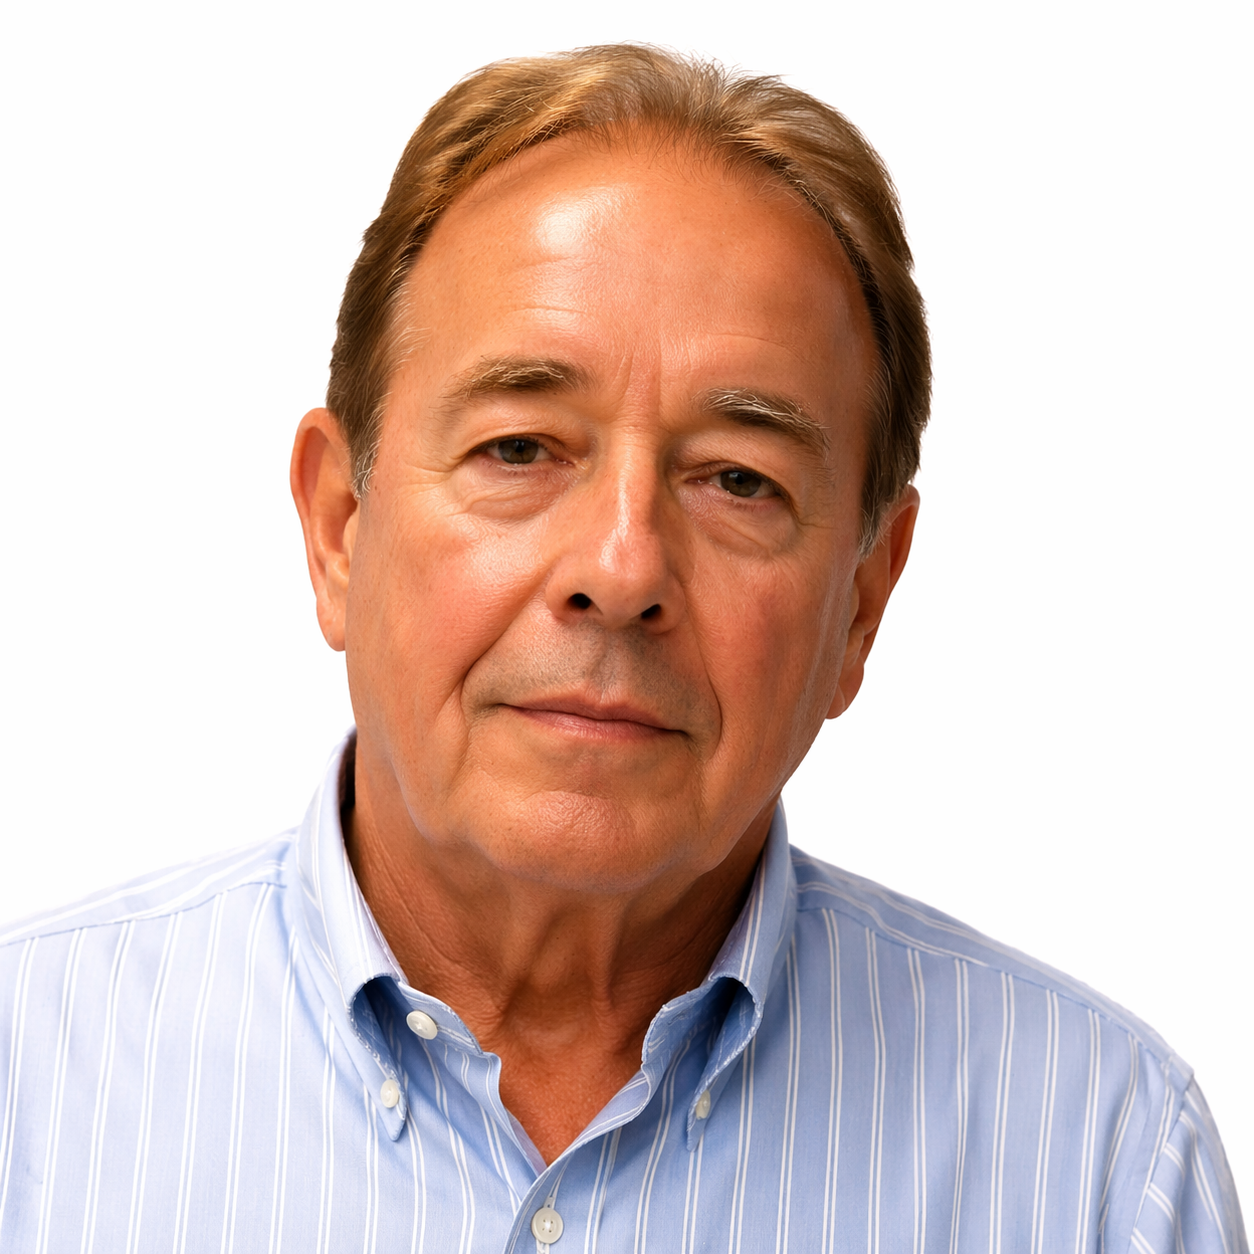
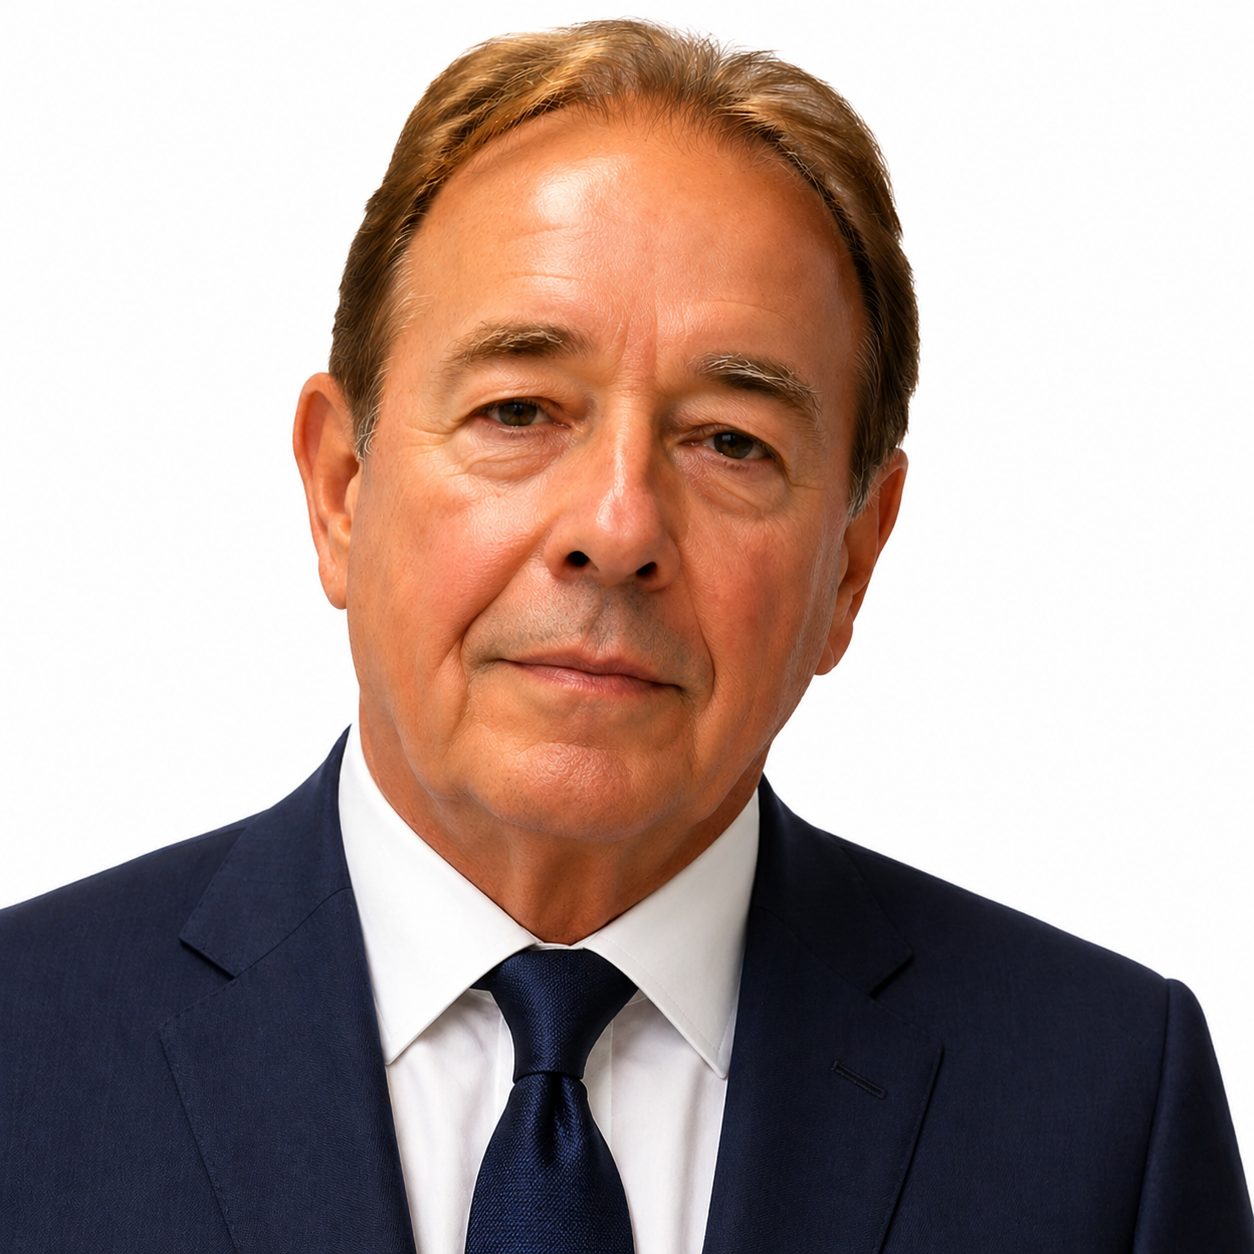
updated

diff --git a/src/app/page.tsx b/src/app/page.tsx
@@ -1,7 +1,7 @@
 "use client";
 
 import { useRef, useEffect, useState } from "react";
-import { motion, useInView, animate } from "framer-motion";
+import { motion, useInView, animate, AnimatePresence } from "framer-motion";
 import Image from "next/image";
 import Link from "next/link";
 import Navbar from "@/components/shared/Navbar";
@@ -65,6 +65,247 @@ function AnimatedNumber({
     <span ref={ref}>
       {prefix}{display}{suffix}
     </span>
+  );
+}
+
+const platformCards = [
+  {
+    image: "/images/towerr.png",
+    logo: "/images/home/logo-avrancecorp.png",
+    logoAlt: "AvranceCorp",
+    title: "Real estate development focused on building lasting communities.",
+    desc: "Real estate development focused on building high-quality residential and mixed-use assets through capital and execution.",
+    href: "/platform/avrancecorp",
+    logoWidth: 130, logoHeight: 36,
+    bigLogo: false, wideMobile: false,
+  },
+  {
+    image: "/images/home/platform-traderea.png",
+    logo: "/images/home/logo-traderea.png",
+    logoAlt: "TradeREA",
+    title: "A digital marketplace for modern real estate trading.",
+    desc: "A digital marketplace platform focused on trading and investment opportunities powered by advanced technology.",
+    href: "/platform/traderea",
+    logoWidth: 180, logoHeight: 48,
+    bigLogo: false, wideMobile: true,
+  },
+  {
+    image: "/images/home/private-capital.png",
+    logo: "/images/home/logo-avrance-capital.png",
+    logoAlt: "Avrance Capital",
+    title: "Private capital, deployed with precision.",
+    desc: "Institutional-grade credit and equity strategies for durable businesses.",
+    href: "/platform/avrancecapital",
+    logoWidth: 130, logoHeight: 36,
+    bigLogo: false, wideMobile: false,
+  },
+  {
+    image: "/images/home/platform-metadata.png",
+    logo: "/images/home/logo-metadata.png",
+    logoAlt: "Metadata & Research",
+    title: "Intelligence that drives every decision.",
+    desc: "Proprietary data and research powering Egolia's investment edge.",
+    href: "/platform/metadata",
+    logoWidth: 240, logoHeight: 60,
+    bigLogo: true, wideMobile: true,
+  },
+  {
+    image: "/images/mining.png",
+    logo: "/images/home/egoliaMining.png",
+    logoAlt: "Egolia Mining",
+    title: "Resource development built on responsible growth.",
+    desc: "Mining operations and resource development focused on sustainable extraction and long-term value creation.",
+    href: "",
+    logoWidth: 200, logoHeight: 50,
+    bigLogo: false, wideMobile: true,
+  },
+];
+
+function PlatformCarousel({ setMiningModal }: { setMiningModal: (v: boolean) => void }) {
+  const [current, setCurrent] = useState(0);
+  const [direction, setDirection] = useState(1);
+  const total = platformCards.length;
+  const gap = 20;
+
+  const prev = () => { setDirection(-1); setCurrent((c) => (c - 1 + total) % total); };
+  const next = () => { setDirection(1); setCurrent((c) => (c + 1) % total); };
+  const getVisible = () => [0, 1, 2].map(i => platformCards[(current + i) % total]);
+
+  const cardContent = (card: typeof platformCards[0], center = false, index = 0) => (
+    <>
+      {card.logoAlt === "Egolia Mining" ? (
+        <button onClick={() => setMiningModal(true)} className="absolute inset-0 z-20 cursor-pointer" />
+      ) : (
+        <Link href={card.href} className="absolute inset-0 z-20" />
+      )}
+      {card.image && (
+        <div className="absolute inset-0 transition-transform duration-700 ease-out group-hover:scale-[1.03]">
+          <Image src={card.image} alt={card.logoAlt} fill className="object-cover object-center" sizes="33vw" />
+        </div>
+      )}
+      <div className="absolute inset-0 pointer-events-none z-[1]" style={{ background: center ? "linear-gradient(to top, rgba(0,0,0,0.88) 0%, rgba(0,0,0,0.55) 30%, rgba(0,0,0,0.1) 55%, transparent 75%)" : card.logoAlt === "Avrance Capital" ? "linear-gradient(to top, rgba(0,0,0,0.82) 0%, rgba(0,0,0,0.55) 40%, rgba(0,0,0,0.2) 70%, transparent 100%)" : "linear-gradient(to top, rgba(0,0,0,0.45) 0%, rgba(0,0,0,0.2) 40%, transparent 70%)" }} />
+      <div className="absolute inset-0 pointer-events-none z-[1]" style={{ background: "linear-gradient(to bottom, rgba(0,0,0,0.35) 0%, transparent 35%)" }} />
+      {/* Number — top left */}
+      <div className="absolute top-4 left-5 z-[2]">
+        <span className="font-black leading-none" style={{ fontSize: "clamp(3rem, 4.5vw, 4.5rem)", background: "linear-gradient(180deg, #ffffff 0%, rgba(255,255,255,0.3) 100%)", WebkitBackgroundClip: "text", WebkitTextFillColor: "transparent", backgroundClip: "text" }}>
+          {index + 1}
+        </span>
+      </div>
+      <div className={`relative z-[2] px-6 flex flex-col items-center text-center ${center ? "pb-6" : "pb-4"}`}>
+        {card.logo && (
+          <div className={`flex items-center justify-center mb-3 ${card.bigLogo ? "h-12" : "h-7"}`}>
+            <Image src={card.logo} alt={card.logoAlt} width={card.logoWidth} height={card.logoHeight}
+              className={`object-contain w-auto ${card.bigLogo ? "max-h-12" : "max-h-7"}`}
+              style={{ filter: "brightness(0) invert(1)" }} />
+          </div>
+        )}
+        <h3 className="text-[22px] font-bold text-white leading-[1.2] tracking-[-0.02em] mb-3">{card.title}</h3>
+        <p className="text-white/90 text-[13px] leading-[1.6] max-w-[220px] mb-4">{card.desc}</p>
+        <span className="inline-flex items-center gap-1.5 text-orange text-[11px] font-semibold tracking-[0.08em] uppercase">
+          View Details
+          <svg className="w-3 h-3" fill="none" stroke="currentColor" strokeWidth={2.5} viewBox="0 0 24 24">
+            <path strokeLinecap="round" strokeLinejoin="round" d="M13.5 4.5L21 12m0 0l-7.5 7.5M21 12H3" />
+          </svg>
+        </span>
+      </div>
+    </>
+  );
+
+  return (
+    <div className="relative max-w-[1400px] mx-auto px-6 lg:px-16">
+      {/* Desktop: Netflix-style sliding track */}
+      <div className="hidden sm:block relative">
+        <button
+          onClick={prev}
+          className="absolute -left-14 top-1/2 -translate-y-1/2 z-10 w-11 h-11 rounded-full bg-white shadow-lg border border-[#e8e8ed] flex items-center justify-center hover:border-orange hover:text-orange transition-colors duration-200"
+        >
+          <svg className="w-5 h-5" fill="none" stroke="currentColor" strokeWidth={2} viewBox="0 0 24 24">
+            <path strokeLinecap="round" strokeLinejoin="round" d="M15 19l-7-7 7-7" />
+          </svg>
+        </button>
+
+        <div className="overflow-hidden">
+          <AnimatePresence mode="popLayout" initial={false}>
+            <motion.div
+              key={current}
+              className="grid grid-cols-3 items-center"
+              style={{ gap: `${gap}px` }}
+              initial={{ x: direction * 100 + "%" }}
+              animate={{ x: "0%" }}
+              exit={{ x: direction * -100 + "%" }}
+              transition={{ duration: 0.5, ease: [0.25, 0.46, 0.45, 0.94] }}
+            >
+              {getVisible().map((card, i) => {
+                const isCenter = i === 1;
+                const realIndex = platformCards.indexOf(card);
+                return (
+                  <motion.div
+                    key={card.logoAlt}
+                    animate={{ scale: isCenter ? 1 : 0.88, opacity: isCenter ? 1 : 0.55 }}
+                    transition={{ duration: 0.5, ease: [0.25, 0.46, 0.45, 0.94] }}
+                    className="aspect-[3/4] rounded-2xl"
+                  >
+                    <div className="group relative overflow-hidden bg-[#1d1d1f] w-full h-full flex flex-col justify-end rounded-2xl">
+                      {cardContent(card, isCenter, realIndex)}
+                    </div>
+                  </motion.div>
+                );
+              })}
+            </motion.div>
+          </AnimatePresence>
+        </div>
+
+        <button
+          onClick={next}
+          className="absolute -right-14 top-1/2 -translate-y-1/2 z-10 w-11 h-11 rounded-full bg-white shadow-lg border border-[#e8e8ed] flex items-center justify-center hover:border-orange hover:text-orange transition-colors duration-200"
+        >
+          <svg className="w-5 h-5" fill="none" stroke="currentColor" strokeWidth={2} viewBox="0 0 24 24">
+            <path strokeLinecap="round" strokeLinejoin="round" d="M9 5l7 7-7 7" />
+          </svg>
+        </button>
+      </div>
+
+      {/* Mobile: Netflix-style sliding track */}
+      <div className="sm:hidden relative -mx-6">
+        <div
+          className="overflow-hidden pl-6"
+          onTouchStart={(e) => {
+            const touch = e.touches[0];
+            (e.currentTarget as HTMLDivElement).dataset.touchX = String(touch.clientX);
+          }}
+          onTouchEnd={(e) => {
+            const startX = Number((e.currentTarget as HTMLDivElement).dataset.touchX ?? 0);
+            const endX = e.changedTouches[0].clientX;
+            const diff = startX - endX;
+            if (Math.abs(diff) > 40) {
+              if (diff > 0) next();
+              else prev();
+            }
+          }}
+        >
+          <motion.div
+            className="flex gap-3"
+            animate={{ x: `calc(-${current * 85}% - ${current * 12}px)` }}
+            transition={{ duration: 0.28, ease: [0.25, 0.46, 0.45, 0.94] }}
+          >
+            {platformCards.map((card, i) => (
+              <div
+                key={i}
+                className="group relative overflow-hidden bg-[#1d1d1f] aspect-[3/4] flex flex-col justify-end rounded-2xl flex-none w-[85%]"
+              >
+                {card.logoAlt === "Egolia Mining" ? (
+                  <button onClick={() => setMiningModal(true)} className="absolute inset-0 z-20 cursor-pointer" />
+                ) : (
+                  <Link href={card.href} className="absolute inset-0 z-20" />
+                )}
+                {card.image && (
+                  <div className="absolute inset-0">
+                    <Image src={card.image} alt={card.logoAlt} fill className="object-cover object-center" sizes="100vw" />
+                  </div>
+                )}
+                <div className="absolute inset-0 pointer-events-none" style={{ background: "linear-gradient(to top, rgba(0,0,0,0.88) 0%, rgba(0,0,0,0.55) 30%, rgba(0,0,0,0.1) 55%, transparent 75%)" }} />
+                <div className="absolute inset-0 pointer-events-none" style={{ background: "linear-gradient(to bottom, rgba(0,0,0,0.35) 0%, transparent 35%)" }} />
+                <div className="absolute top-4 left-5 z-[2]">
+                  <span className="font-black leading-none" style={{ fontSize: "3.5rem", background: "linear-gradient(180deg, #ffffff 0%, rgba(255,255,255,0.3) 100%)", WebkitBackgroundClip: "text", WebkitTextFillColor: "transparent", backgroundClip: "text" }}>
+                    {i + 1}
+                  </span>
+                </div>
+                <div className="relative z-10 px-5 pb-8 flex flex-col items-center text-center">
+                  {card.logo && (
+                    <div className={`flex items-center justify-center mb-3 ${card.bigLogo ? "h-9" : "h-6"}`}>
+                      <Image src={card.logo} alt={card.logoAlt} width={card.logoWidth} height={card.logoHeight}
+                        className={`object-contain w-auto ${card.bigLogo ? `max-h-9 ${card.wideMobile ? "max-w-[180px]" : "max-w-[110px]"}` : `max-h-6 ${card.wideMobile ? "max-w-[140px]" : "max-w-[90px]"}`}`}
+                        style={{ filter: "brightness(0) invert(1)" }} />
+                    </div>
+                  )}
+                  <h3 className="text-[22px] font-semibold text-white leading-[1.2] tracking-[-0.02em] mb-3">{card.title}</h3>
+                  <span className="inline-flex items-center gap-1.5 text-orange text-[12px] font-semibold tracking-[0.08em] uppercase">
+                    View Details
+                    <svg className="w-3 h-3" fill="none" stroke="currentColor" strokeWidth={2.5} viewBox="0 0 24 24">
+                      <path strokeLinecap="round" strokeLinejoin="round" d="M13.5 4.5L21 12m0 0l-7.5 7.5M21 12H3" />
+                    </svg>
+                  </span>
+                </div>
+              </div>
+            ))}
+          </motion.div>
+        </div>
+
+        {/* Mobile dots */}
+        <div className="flex justify-center gap-2 mt-4 mx-6">
+          {platformCards.map((_, i) => (
+            <button key={i} onClick={() => { setDirection(i > current ? 1 : -1); setCurrent(i); }} className={`w-2 h-2 rounded-full transition-all duration-300 ${i === current ? "bg-orange w-5" : "bg-[#d1d1d6]"}`} />
+          ))}
+        </div>
+      </div>
+
+      {/* Desktop dots */}
+      <div className="hidden sm:flex justify-center gap-2 mt-6">
+        {platformCards.map((_, i) => (
+          <button key={i} onClick={() => { setDirection(i > current ? 1 : -1); setCurrent(i); }} className={`h-2 rounded-full transition-all duration-300 ${i === current ? "bg-orange w-5" : "bg-[#d1d1d6] w-2"}`} />
+        ))}
+      </div>
+    </div>
   );
 }
 
@@ -274,131 +515,7 @@ export default function Home() {
           </FadeUp>
         </div>
 
-        <div className="max-w-[1400px] mx-auto px-6 lg:px-10">
-        <div className="grid grid-cols-1 lg:grid-cols-2 gap-4 lg:gap-5">
-          {[
-            {
-              image: "/images/towerr.png",
-              logo: "/images/home/logo-avrancecorp.png",
-              logoAlt: "AvranceCorp",
-              title: "Real estate development focused on building lasting communities.",
-              desc: "Real estate development focused on building high-quality residential and mixed-use assets through capital and execution.",
-              href: "/platform/avrancecorp",
-              logoWidth: 130,
-              logoHeight: 36,
-              useBlend: false,
-            },
-            {
-              image: "/images/home/platform-traderea.png",
-              logo: "/images/home/logo-traderea.png",
-              logoAlt: "TradeREA",
-              title: "A digital marketplace for modern real estate trading.",
-              desc: "A digital marketplace platform focused on trading and investment opportunities powered by advanced technology.",
-              href: "/platform/traderea",
-              logoWidth: 180,
-              logoHeight: 48,
-              useBlend: true,
-              wideMobile: true,
-            },
-            {
-              image: "/images/home/private-capital.png",
-              logo: "/images/home/logo-avrance-capital.png",
-              logoAlt: "Avrance Capital",
-              title: "Private capital, deployed with precision.",
-              desc: "Institutional-grade credit and equity strategies for durable businesses.",
-              href: "/platform/avrancecapital",
-              logoWidth: 130,
-              logoHeight: 36,
-              useBlend: false,
-            },
-            {
-              image: "/images/home/platform-metadata.png",
-              logo: "/images/home/logo-metadata.png",
-              logoAlt: "Metadata & Research",
-              title: "Intelligence that drives every decision.",
-              desc: "Proprietary data and research powering Egolia's investment edge.",
-              href: "/platform/metadata",
-              logoWidth: 240,
-              logoHeight: 60,
-              bigLogo: true,
-              useBlend: true,
-              wideMobile: true,
-            },
-            {
-              image: "/images/mining.png",
-              logo: "/images/home/egoliaMining.png",
-              logoAlt: "Egolia Mining",
-              title: "Resource development built on responsible growth.",
-              desc: "Mining operations and resource development focused on sustainable extraction and long-term value creation.",
-              href: "/platform/avrancemining",
-              logoWidth: 200,
-              logoHeight: 50,
-              useBlend: false,
-              wideMobile: true,
-              span: false,
-            },
-          ].map((card: { image: string; logo: string; logoAlt: string; title: string; desc: string; href: string; logoWidth: number; logoHeight: number; bigLogo?: boolean; useBlend: boolean; wideMobile?: boolean; imageContain?: boolean; span?: boolean }, i) => (
-            <motion.div
-              key={i}
-              initial={{ opacity: 0, y: 16 }}
-              whileInView={{ opacity: 1, y: 0 }}
-              viewport={{ once: true, margin: "-60px" }}
-              transition={{ duration: 0.8, delay: i * 0.1, ease: [0.25, 0.46, 0.45, 0.94] }}
-              className={`group relative overflow-hidden bg-[#1d1d1f] aspect-[4/3] flex flex-col justify-end rounded-2xl${card.span ? " lg:col-span-2" : ""}`}
-            >
-              {card.logoAlt === "Egolia Mining" ? (
-                <button onClick={() => setMiningModal(true)} className="absolute inset-0 z-20 cursor-pointer" />
-              ) : (
-                <Link href={card.href} className="absolute inset-0 z-20" />
-              )}
-
-              {card.image && (
-                <div className="absolute inset-0 transition-transform duration-700 ease-out group-hover:scale-[1.03]">
-                  <Image src={card.image} alt={card.logoAlt} fill className="object-cover object-center" />
-                </div>
-              )}
-
-              <div
-                className="absolute inset-0 pointer-events-none"
-                style={{
-                  background: `
-                    linear-gradient(to top, rgba(0,0,0,0.88) 0%, rgba(0,0,0,0.55) 30%, rgba(0,0,0,0.1) 55%, transparent 75%),
-                    linear-gradient(to right, rgba(0,0,0,0.18) 0%, transparent 45%)
-                  `,
-                }}
-              />
-
-              <div className="relative z-10 px-5 pb-7 sm:px-8 sm:pb-8 lg:px-10 lg:pb-10 flex flex-col">
-                {card.logo && (
-                  <div className={`flex items-center mb-3 sm:mb-4 ${card.bigLogo ? "h-8 sm:h-16" : "h-5 sm:h-8"}`}>
-                    <Image
-                      src={card.logo}
-                      alt={card.logoAlt}
-                      width={card.logoWidth}
-                      height={card.logoHeight}
-                      className={`object-contain object-left w-auto ${card.bigLogo ? `max-h-8 sm:max-h-16 ${card.wideMobile ? "max-w-[160px]" : "max-w-[100px]"} sm:max-w-none` : `max-h-5 sm:max-h-8 ${card.wideMobile ? "max-w-[130px]" : "max-w-[80px]"} sm:max-w-none`}`}
-                      style={{ filter: "brightness(0) invert(1)" }}
-                    />
-                  </div>
-                )}
-
-                <h3 className="text-[14px] sm:text-[20px] md:text-[22px] font-semibold sm:font-bold text-white leading-[1.2] tracking-[-0.02em] mb-2 sm:mb-4">
-                  {card.title}
-                </h3>
-                <p className="text-white/90 text-[13px] sm:text-[15px] leading-[1.6] max-w-[300px] mb-4 hidden sm:block">
-                  {card.desc}
-                </p>
-                <span className="inline-flex items-center gap-1.5 text-orange text-[11px] sm:text-[12px] font-semibold tracking-[0.08em] uppercase">
-                  View Details
-                  <svg className="w-3 h-3 sm:w-3.5 sm:h-3.5" fill="none" stroke="currentColor" strokeWidth={2.5} viewBox="0 0 24 24">
-                    <path strokeLinecap="round" strokeLinejoin="round" d="M13.5 4.5L21 12m0 0l-7.5 7.5M21 12H3" />
-                  </svg>
-                </span>
-              </div>
-            </motion.div>
-          ))}
-        </div>
-        </div>
+        <PlatformCarousel setMiningModal={setMiningModal} />
       </section>
 
       {/* ══════════════════════════════════════

diff --git a/src/app/team/page.tsx b/src/app/team/page.tsx
@@ -129,7 +129,7 @@ const nonExecutiveTeam = [
     ],
   },
   {
-    name: "Pauline",
+    name: "Pauline Lewis",
     role: "Executive Personal Assistant",
     fullTitle: "Executive Personal Assistant",
     bio: "Senior professional and non-executive contributor providing independent governance insight and strategic counsel to Egolia Group.",
